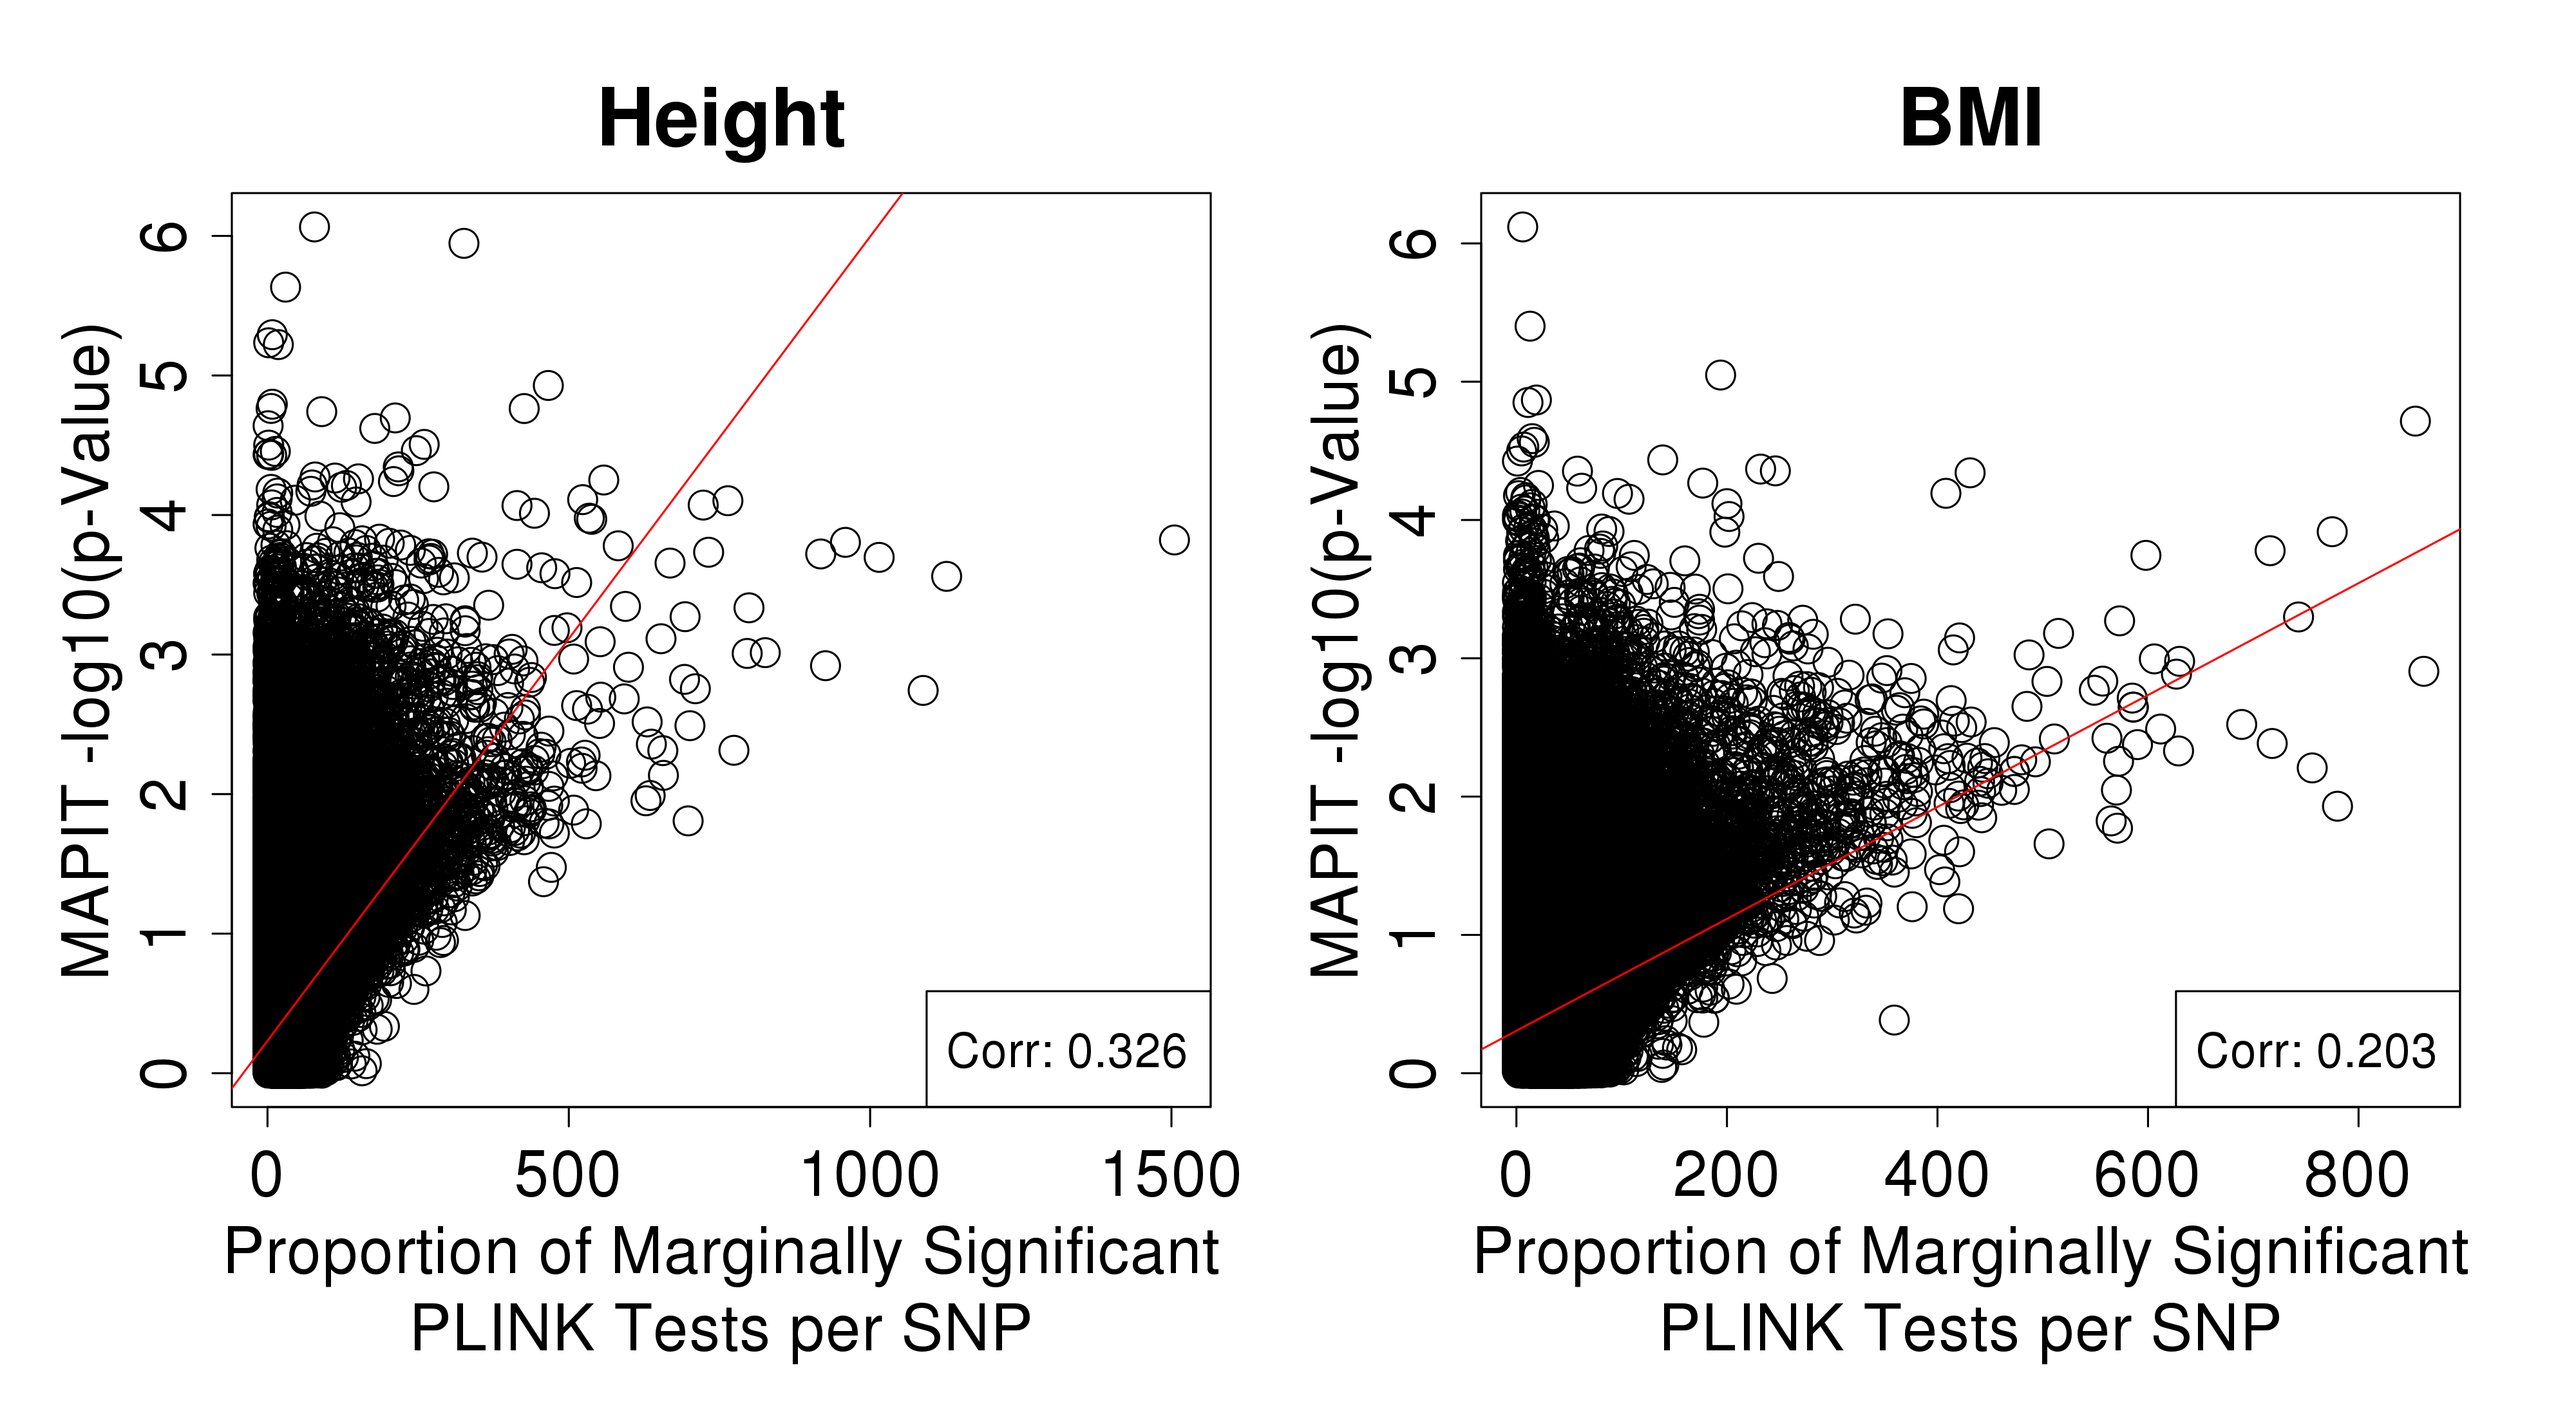
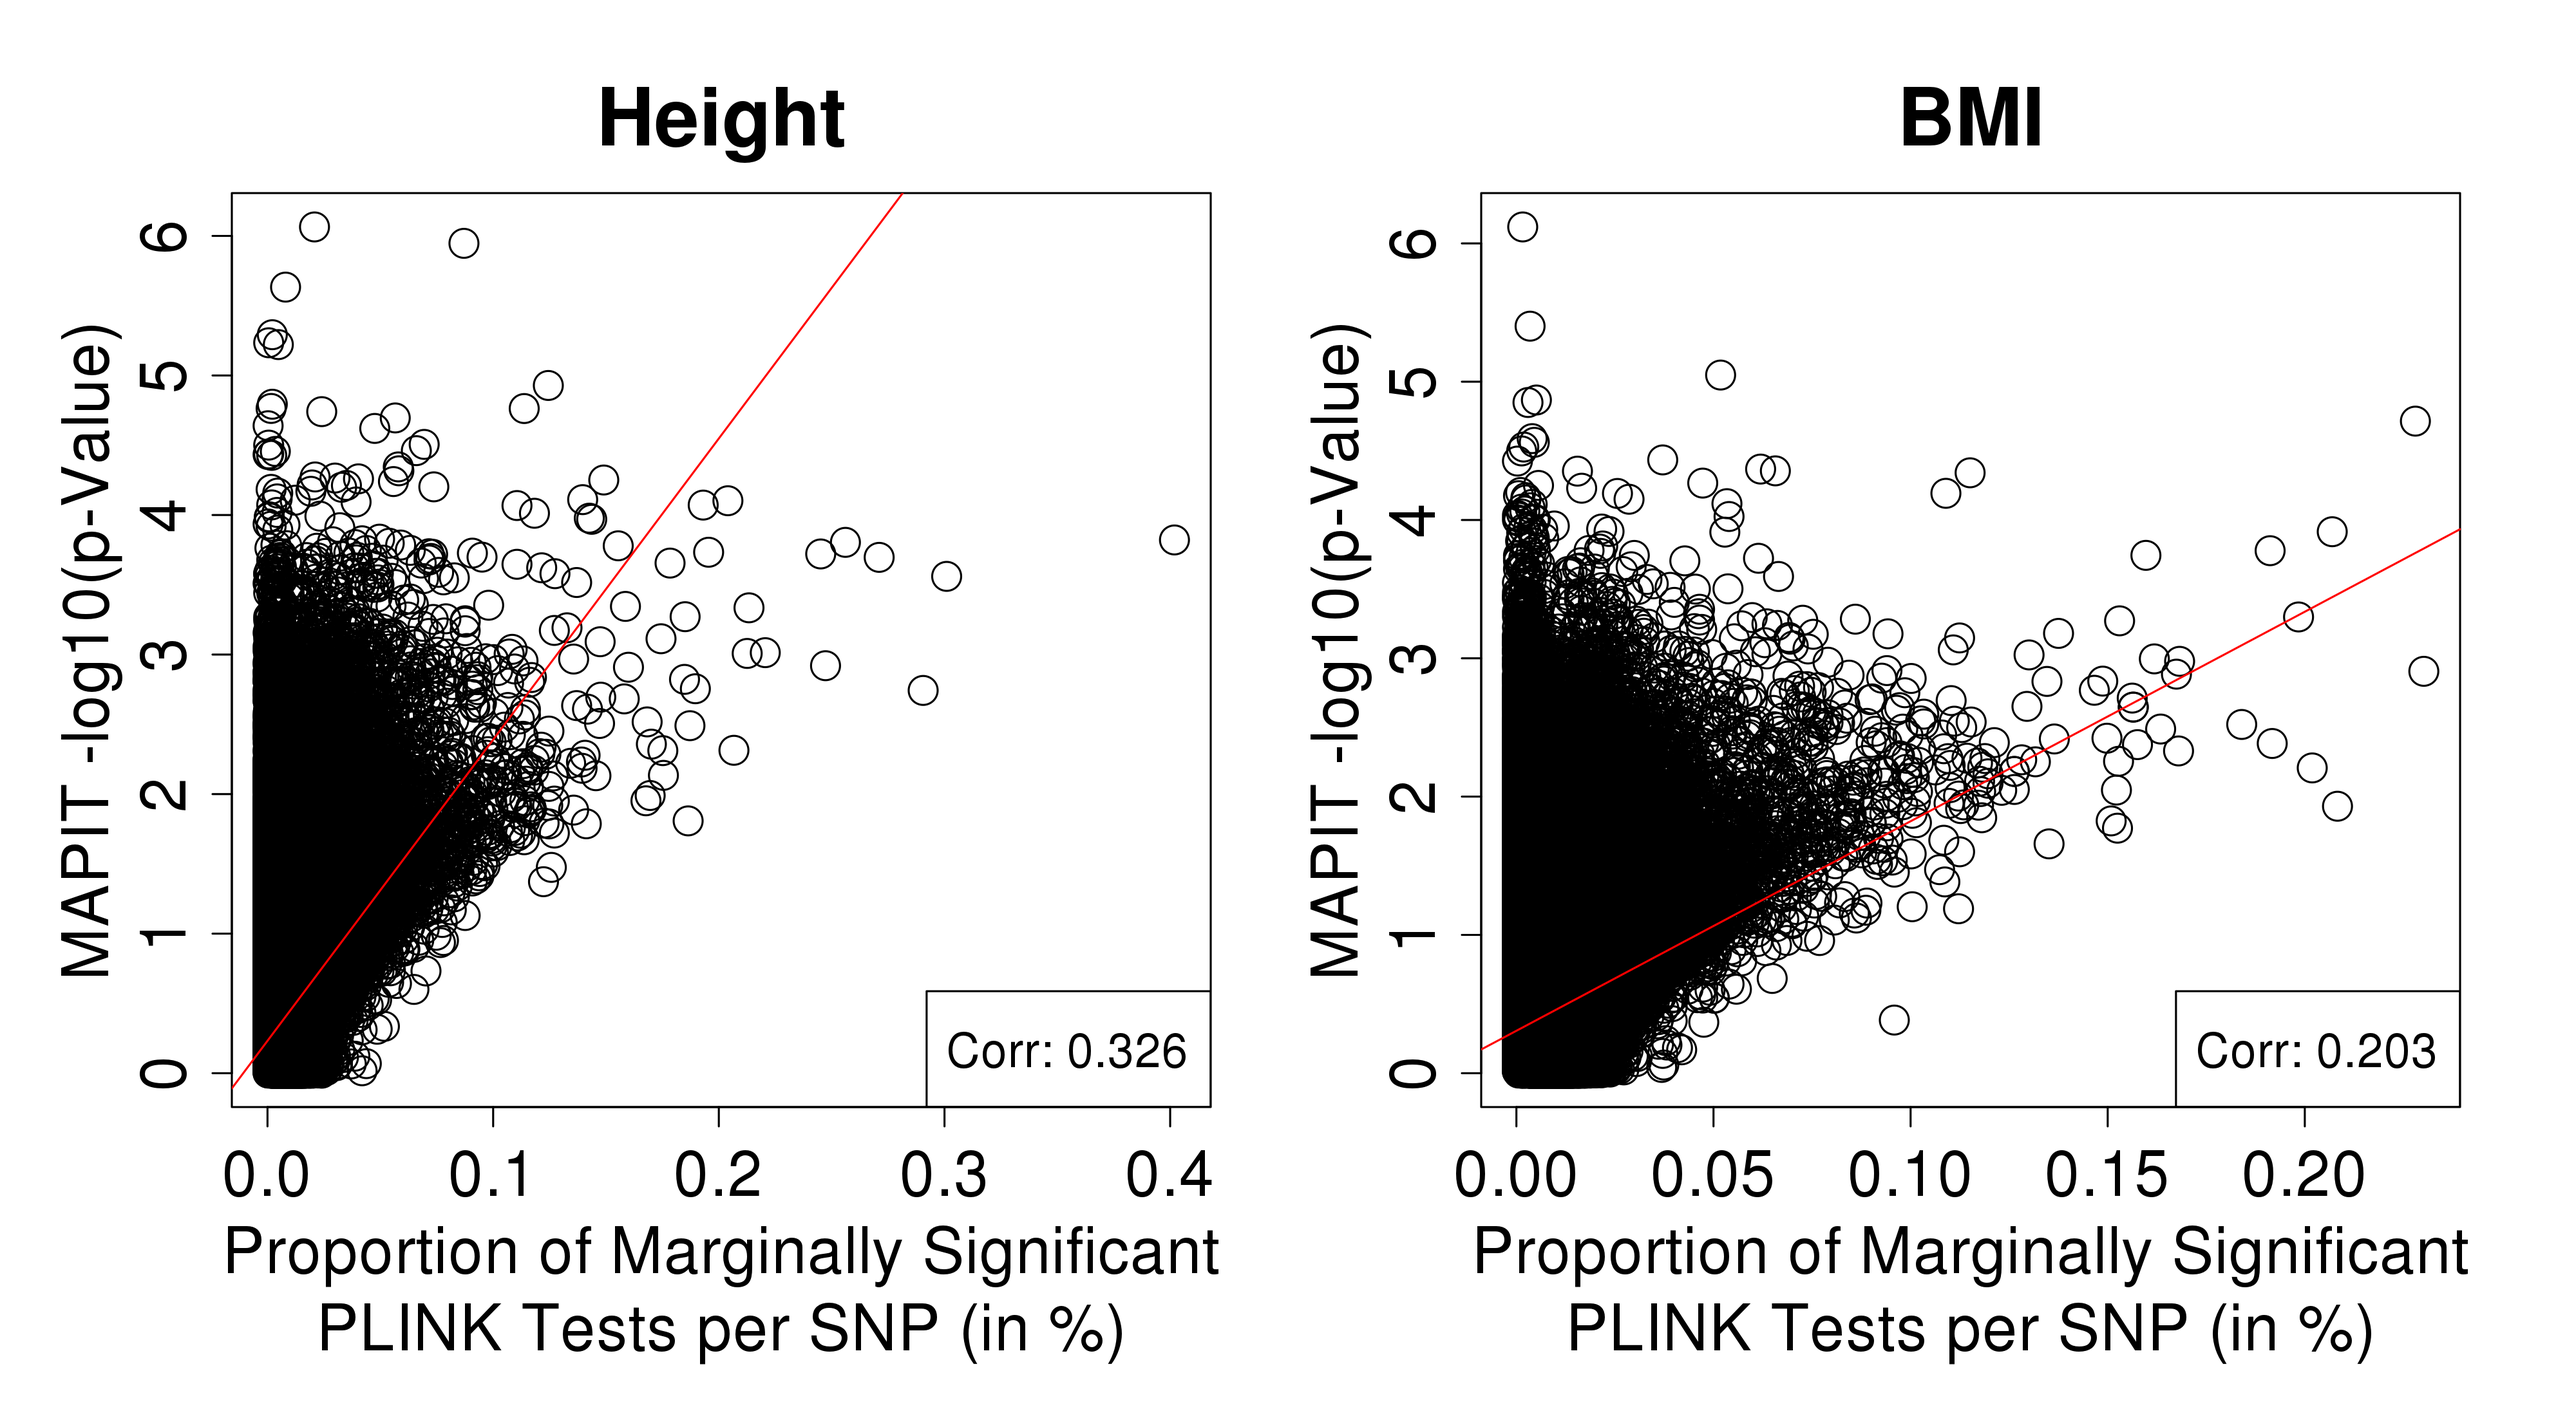
Aligning PLINKvsMAPIT figures (main & supplementary)

diff --git a/Main.tex b/Main.tex
@@ -211,7 +211,7 @@ Looking at this new framework, we do start to see different patterns between our
 
 The second approach we took to investigate single-SNP epistasis was to implemented MAPIT \citep{Crawford2017}, a method which specifically tests for the presence of \textit{marginal epistasis} (see Materials and Methods). In brief, the marginal epistasis of a single SNP can be thought of as the summation of \textbf{all} epistatic interactions that SNP has with the rest of the genome. Evidence for marginal epistasis does not immediately identify \textbf{which} loci elsewhere in the genome the SNP of interest is interacting with, but in exchange for this generalization the approach turns a highly burdensome multiple-testing setup into a much more tractable variance component model.
 
-Running MAPIT on our population subsets for both height and BMI, we find that there are no SNPs with genome-wide significant signals for marginal epistasis ($p$-value $<= 5\times10^{-8}$; Figure \ref{InterPath-Main-Figure-MAPIT-HeightBMI}). We do also see once again however the top SNPs occurring in different regions of the genome between our different population subsets (Supplementary Table \ref{InterPath-Supp-Table-MAPIT-TopSNPs-a}). But it is unclear if these are results reflecting true biology or simply noise due to a lack of power. Going along with the theme of relaxing our significance threshold criteria to help identify patterns, we compared our MAPIT results against our PLINK results. Specifically, we compared each SNP's MAPIT -$\log_{10}$ $p$-value against its proportion of marginal significant PLINK interactions, and indeed we see more potential evidence for signals of epistasis (Figure \ref{InterPath-Main-Figure-PLINKvsMAPIT-HeightBMI-African} \& Supplementary Figure \ref{InterPath-Supp-Figure-MAPITvsPLINK-HeightBMI-AllPops}). Looking at height and BMI in the African subset for example, we see that for some SNPs that have marginally significant MAPIT $p$-values, they also have greater proportions of marginally significant pairwise SNP interactions. Because these two metrics are potentially measuring the same thing but through different approaches, seeing marginal signals from both methods at the same locus is encouraging. Therefore, despite our limited power to identify single-SNP genome-wide significant interactions, there may be evidence for epistasis at lower stringency thresholds in our data.
+Running MAPIT on our population subsets for both height and BMI, we find that there are no SNPs with genome-wide significant signals for marginal epistasis ($p$-value $<= 5\times10^{-8}$; Figure \ref{InterPath-Main-Figure-MAPIT-HeightBMI}). We do also see once again however the top SNPs occurring in different regions of the genome between our different population subsets (Supplementary Table \ref{InterPath-Supp-Table-MAPIT-TopSNPs-a}). But it is unclear if these are results reflecting true biology or simply noise due to a lack of power. Going along with the theme of relaxing our significance threshold criteria to help identify patterns, we compared our MAPIT results against our PLINK results. Specifically, we compared each SNP's MAPIT -$\log_{10}$ $p$-value against its proportion of marginal significant PLINK interactions, and indeed we see more potential evidence for signals of epistasis (Figure \ref{InterPath-Main-Figure-PLINKvsMAPIT-HeightBMI-African} \& Supplementary Figure \ref{InterPath-Supp-Figure-MAPITvsPLINK-HeightBMI-AllPops-a}). Looking at height and BMI in the African subset for example, we see that for some SNPs that have marginally significant MAPIT $p$-values, they also have greater proportions of marginally significant pairwise SNP interactions. Because these two metrics are potentially measuring the same thing but through different approaches, seeing marginal signals from both methods at the same locus is encouraging. Therefore, despite our limited power to identify single-SNP genome-wide significant interactions, there may be evidence for epistasis at lower stringency thresholds in our data.
 
 \begin{figure}[htb]
 \centering

diff --git a/Supplementary.tex b/Supplementary.tex
@@ -106,14 +106,26 @@ After this first round of QC procedures, we then proceeded to impute our current
 \begin{figure}[htbp]
 \centering
 \vspace*{-2cm}
-\includegraphics[scale=.3]{Images/Supp/InterPath_Supp_Figure_PLINKvsMAPIT_vs2_AllPops_HeightBMI.png}
-\caption[TBD]{\textbf{PLINK vs. MAPIT: Height \& BMI in all UKB subsets}. Caption continued on next page.}
-\label{InterPath-Supp-Figure-MAPITvsPLINK-HeightBMI-AllPops}
+\includegraphics[scale=.3]{Images/Supp/InterPath_Supp_Figure_PLINKvsMAPIT_vs3_AllPops_HeightBMI_pt1.png}
+\caption[TBD]{\textbf{PLINK vs. MAPIT: Height \& BMI in all UKB subsets}. Caption continued at end of figures.}
+\label{InterPath-Supp-Figure-MAPITvsPLINK-HeightBMI-AllPops-a}
 \end{figure}
 \clearpage
 \setlength{\footskip}{1cm}
-
 \addtocounter{figure}{-1}
+
+\setlength{\footskip}{3cm}
+\begin{figure}[htbp]
+\centering
+\vspace*{-2cm}
+\includegraphics[scale=.3]{Images/Supp/InterPath_Supp_Figure_PLINKvsMAPIT_vs3_AllPops_HeightBMI_pt2.png}
+\caption[TBD]{\textbf{PLINK vs. MAPIT: Height \& BMI in all UKB subsets}. Caption continued at end of figure.}
+\label{InterPath-Supp-Figure-MAPITvsPLINK-HeightBMI-AllPops-b}
+\end{figure}
+\clearpage
+\setlength{\footskip}{1cm}
+\addtocounter{figure}{-1}
+
 \begin{figure} [t!]
 \caption[TBD]{\textbf{PLINK vs. MAPIT: Height \& BMI in all UKB subsets}. The figure shows the single-SNP PLINK results vs. MAPIT results for height and BMI in each UKB subset. For each individual plot, the PLINK results are shown on the $x$-axis as the proportion of marginally significant interactions per SNP (where marginally significant is defined as $p$-value $<= 1\times10^{-4}$) and the MAPIT results are shown on the $y$-axis as the -$\log_{10}$ of the MAPIT $p$-values. The dotted red line shows the line of best fit, and the correlation between the two metrics is shown in the legend. For many of these plots we observe a subset of SNPs with greater marginal epistasis (higher -$\log_{10}$ $p$-values) beginning to correlate with having larger proportions of marginally significant SNP-by-SNP interactions. Seeing the same signal between two different approaches suggests there may be evidence for epistasis on the single-SNP level, albeit weak.}
 \label{InterPath-Supp-Figure-MAPITvsPLINK-HeightBMI-All-caption}
